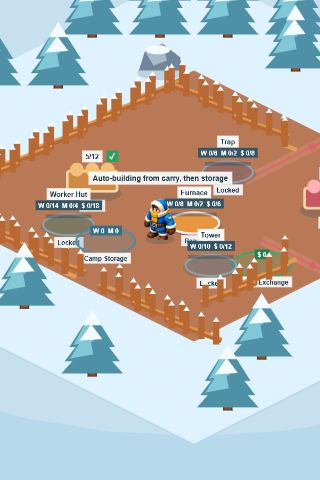
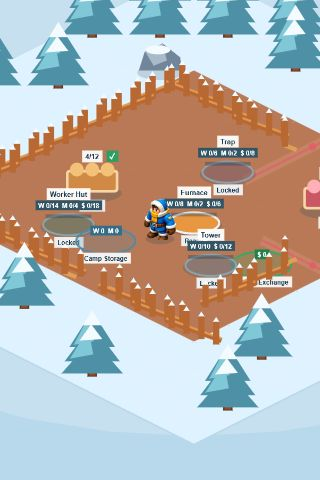
fix(buildings): avoid prompt overlap on build pads

Changed region(s): [[0.25, 0.3438, 0.75, 0.4062]]

diff --git a/src/game/scenes/GameScene.ts b/src/game/scenes/GameScene.ts
@@ -71,9 +71,10 @@ export class GameScene extends Phaser.Scene {
 				if (!this.interactionPrompt) {
 					return;
 				}
+				const prompt = interactable ? this.getInteractionPrompt(interactable.id) : '';
 				this.interactionPrompt
-					.setText(interactable ? this.getInteractionPrompt(interactable.id) : '')
-					.setVisible(Boolean(interactable));
+					.setText(prompt)
+					.setVisible(prompt.length > 0);
 			}
 		});
 		this.economy = new EconomySystem(
@@ -161,7 +162,7 @@ export class GameScene extends Phaser.Scene {
 			return 'Auto-collecting while nearby';
 		}
 		if (id.endsWith('-pad')) {
-			return 'Auto-building from carry, then storage';
+			return '';
 		}
 		return `Near ${id}`;
 	}